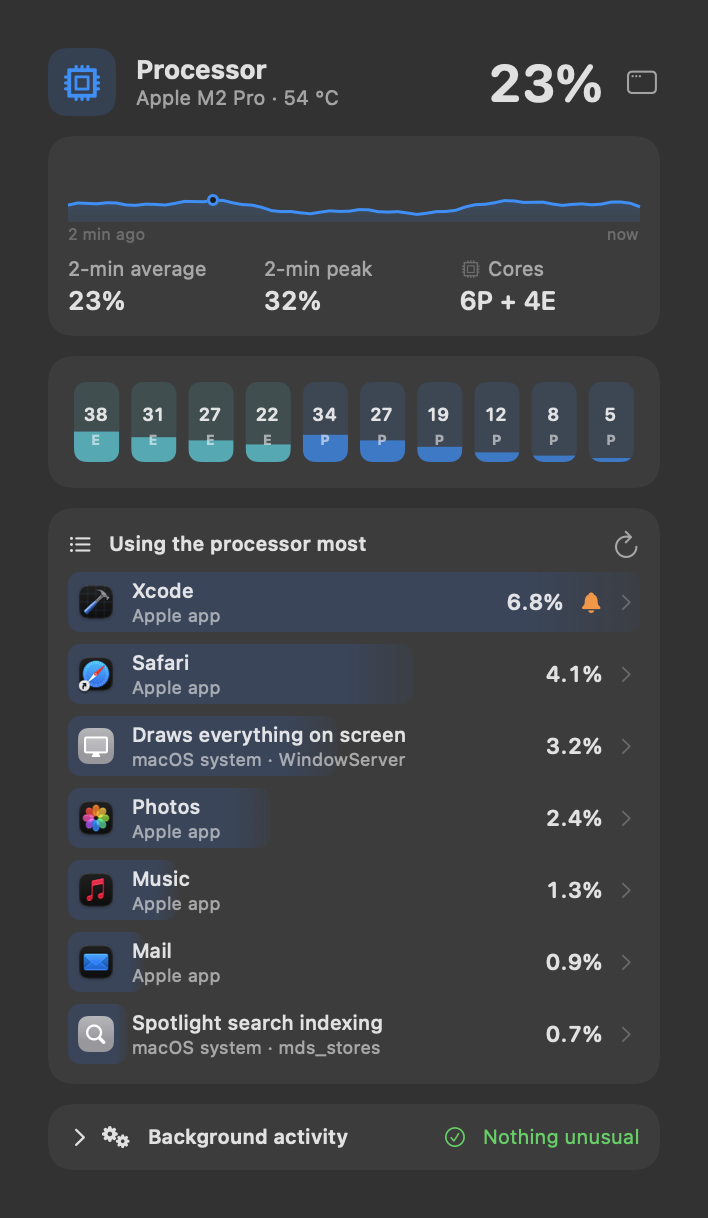
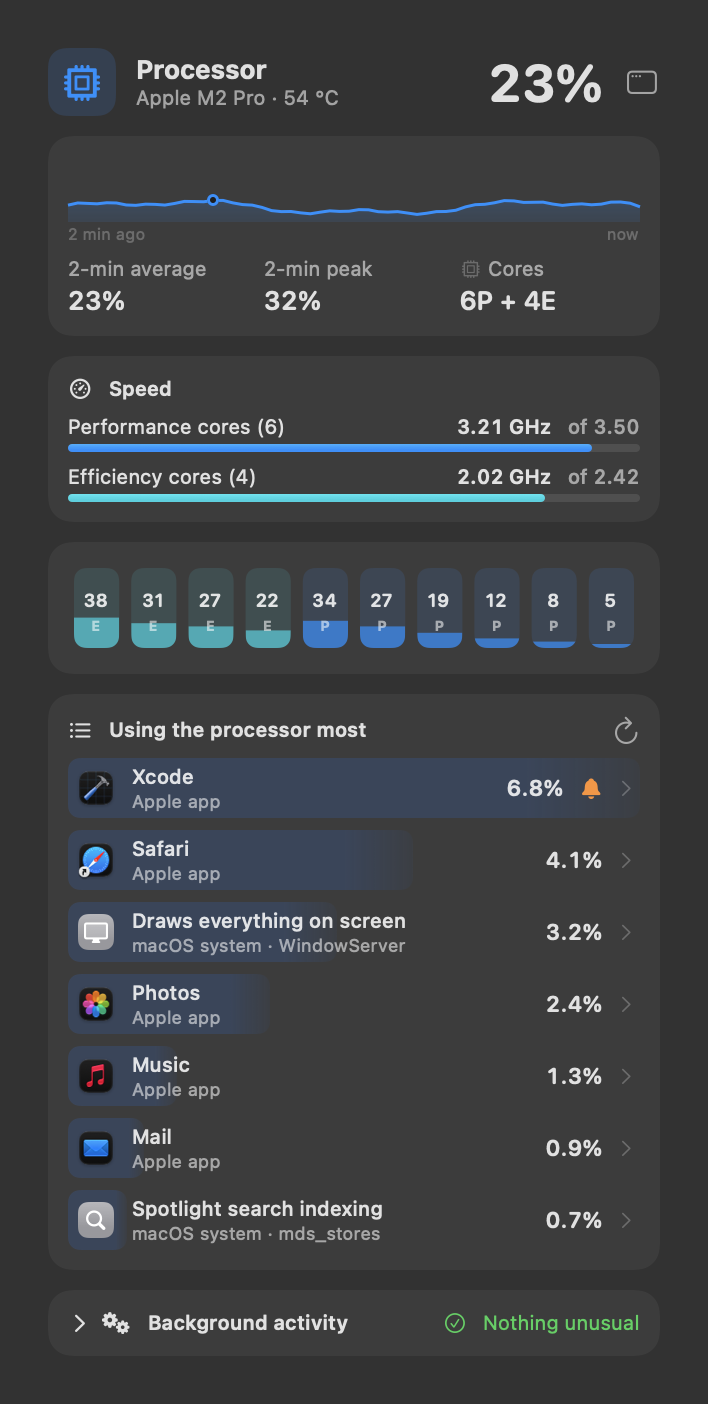
Sparewatt 1.23: Processor speed (Speed card: performance and efficiency cores' GHz against their top speed; processor watts where macOS gives them); Privacy page, processor panel docs and changelog; processor-speed and panel images

diff --git a/features/02 Processor, graphics and memory.md b/features/02 Processor, graphics and memory.md
@@ -4,7 +4,7 @@
 
 ## Processor panel
 
-<p align="center"><img src="../images/features/panel-processor.png" width="320" alt="Processor panel"><br><em>Processor panel, top to bottom: load, chip and temperature · 2-minute graph (average, peak, cores) · one tile per core (E efficiency, P performance) · apps using the processor most · background activity (folded to one line).</em></p>
+<p align="center"><img src="../images/features/panel-processor.png" width="320" alt="Processor panel"><br><em>Processor panel, top to bottom: load, chip and temperature · 2-minute graph (average, peak, cores) · speed of each kind of core · one tile per core (E efficiency, P performance) · apps using the processor most · background activity (folded to one line).</em></p>
 
 **Purpose.** Tell whether the processor is the reason the Mac feels slow or warm, and who is using it.
 
@@ -13,6 +13,10 @@
   temperature underneath.
 - **Load card:** a sparkline of the last 60 readings (two minutes at the default update speed) with *2-min average*,
   *2-min peak* and *Cores* ("8P + 2E": performance and efficiency cores).
+- **Speed** (Apple silicon): how fast the performance cores and the efficiency cores run while they work, in GHz,
+  against each kind's top speed ("3.02 GHz of 3.23"), with a bar. It reads *resting* when those cores did nothing.
+  Where macOS reports the processor's watts, they show beside the title; on many Macs (an M1 Max, for one) macOS keeps
+  that counter at zero for apps, and then no figure is shown rather than a made-up one.
 - **Cores:** each core's load — efficiency cores (teal) first, then performance cores (blue) — as live tiles with the
   load sized to fit and E or P underneath, or as bars when live diagrams are off.
 - **Using the processor most:** the apps and processes with the highest share, as a share of the **whole** processor.
@@ -25,6 +29,10 @@
 - The fan spins up during a quiet moment: open the panel and see which app is busy.
 - Check whether a long export or compile is using every core or just one.
 - See whether slowness is the processor at all — if it is low, look at memory or storage instead.
+- See whether the processor is running at full speed during a long job, or held back (for example by the heat or Low
+  Power Mode).
+
+<p align="center"><img src="../images/features/processor-speed.png" width="354" alt="Speed"><br><em>Speed: performance and efficiency cores while they work, against their top speeds. (Sample values.)</em></p>
 
 **Benefits.**
 - Load is averaged over 10 seconds by default, so you see real work, not every spike.
@@ -32,7 +40,9 @@
 
 **Where.** CPU part of the menu bar; Dashboard → **Processor**.
 
-**Limits.** Performance/efficiency split is Apple silicon only.
+**Limits.** Performance/efficiency split and the speed are Apple silicon only. The speed is the time-weighted average
+of the speed states each core reported over the last 2 seconds (from macOS's own counters and its frequency table),
+read only while a Sparewatt panel or the dashboard is open.
 
 ---
 

diff --git a/guide/10 What Sparewatt runs and reads.md b/guide/10 What Sparewatt runs and reads.md
@@ -34,7 +34,7 @@ All are part of macOS. None runs with more rights than you have, except `pmset` 
 | `ditto` | As you click Zip on the Shelf. | Makes the zip file. |
 | `osascript` | Only when macOS's notification center can't be used by Sparewatt. | Shows a plain notification banner instead. |
 
-Processor, memory, graphics, temperatures, fans, battery, charger, disk speed, what keeps the Mac awake, the network connection (Wi-Fi signal, addresses, router, VPN) and other disks (size, free space, how they connect) are read straight from macOS (IOKit, the SMC sensors and system calls); no tool is started for them. The graphics chip's watts come from macOS's energy counters (IOReport), read only while a panel that shows them is open.
+Processor, memory, graphics, temperatures, fans, battery, charger, disk speed, what keeps the Mac awake, the network connection (Wi-Fi signal, addresses, router, VPN), other disks (size, free space, how they connect) and the processor's speed (its speed-state counters, while a Sparewatt panel or the dashboard is open) are read straight from macOS (IOKit, IOReport, the SMC sensors and system calls); no tool is started for them. The graphics chip's watts come from macOS's energy counters (IOReport), read only while a panel that shows them is open.
 
 The experimental Power by part card's *Calibrate* changes the screen brightness and the keyboard light and, only if you
 tick *Wi-Fi too*, turns Wi-Fi off and on. It puts everything back afterwards.

diff --git a/CHANGELOG.md b/CHANGELOG.md
@@ -2,6 +2,17 @@
 
 What changed in Sparewatt, newest first, in plain words. Dates are when the change was made.
 
+## 2026-11-21 — Sparewatt 1.23
+
+Released as [Sparewatt 1.23](https://github.com/MShirazAhmad/Sparewatt-docs/releases/tag/v1.23-2026-11-21).
+
+- **Processor speed:** a *Speed* card in the Processor panel shows how fast the performance cores and the efficiency
+  cores run while they work, in GHz, against each kind's top speed. It comes from macOS's own counters, with no tool
+  started, and is read only while a Sparewatt panel or the dashboard is open
+  ([more](features/02%20Processor%2C%20graphics%20and%20memory.md#processor-panel)).
+- **Processor watts** show beside it on Macs where macOS reports them. On many Macs (an M1 Max, for one) macOS keeps
+  that counter at zero for apps, so nothing is shown there rather than a guess.
+
 ## 2026-11-21 — Sparewatt 1.22
 
 Released as [Sparewatt 1.22](https://github.com/MShirazAhmad/Sparewatt-docs/releases/tag/v1.22-2026-11-21).
